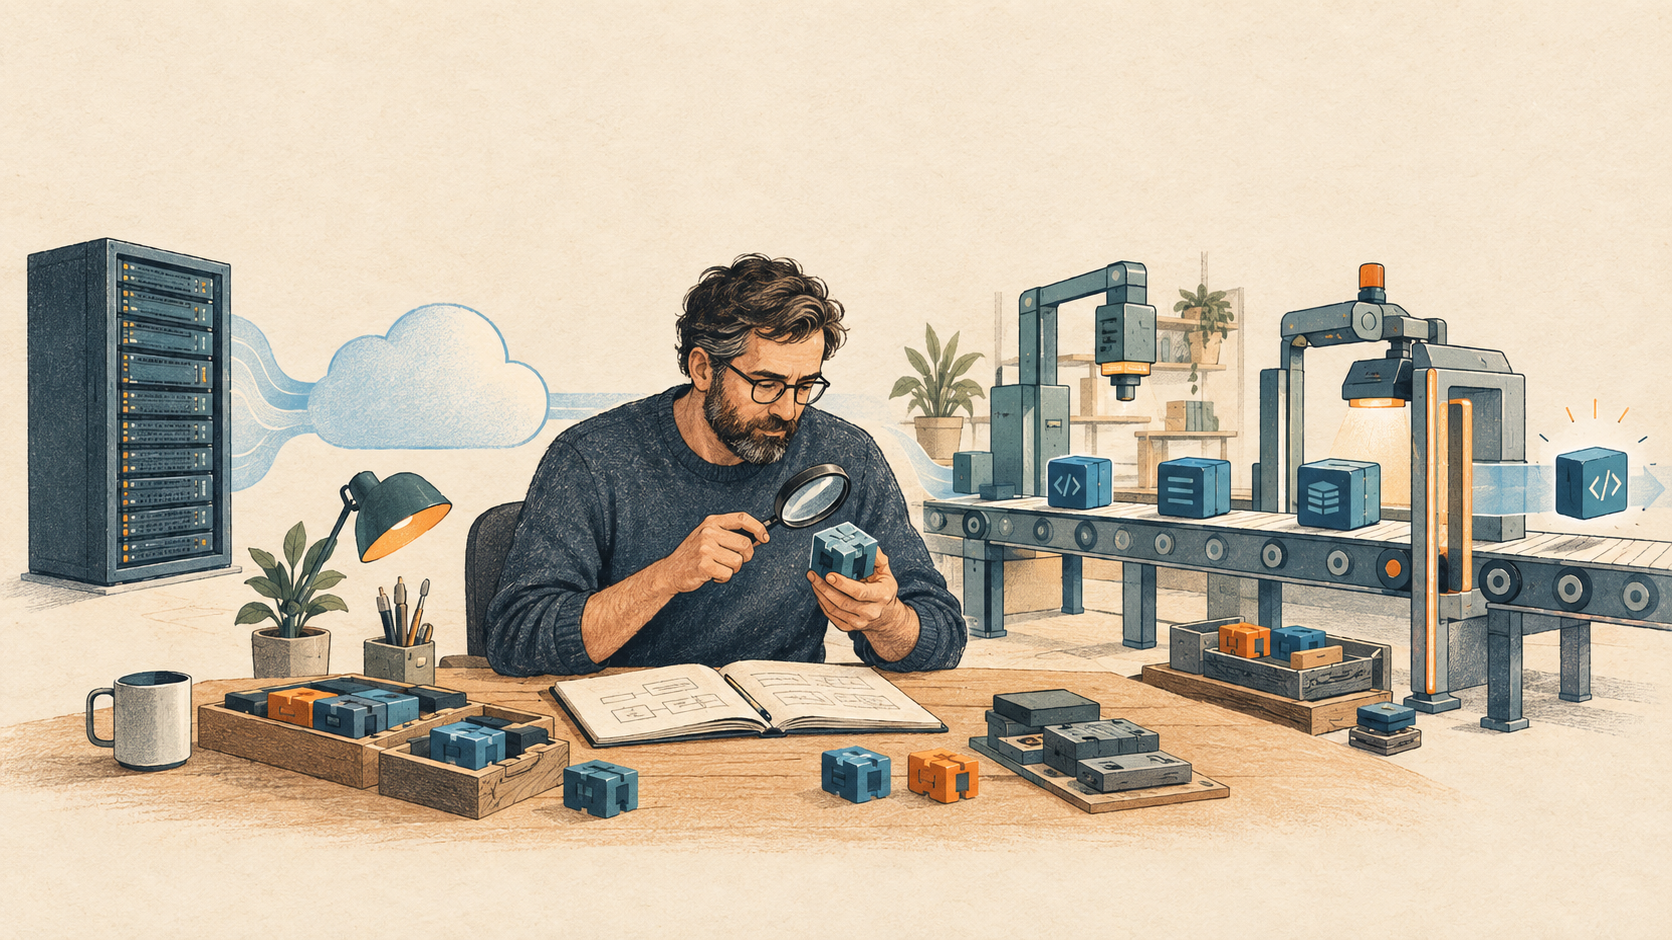
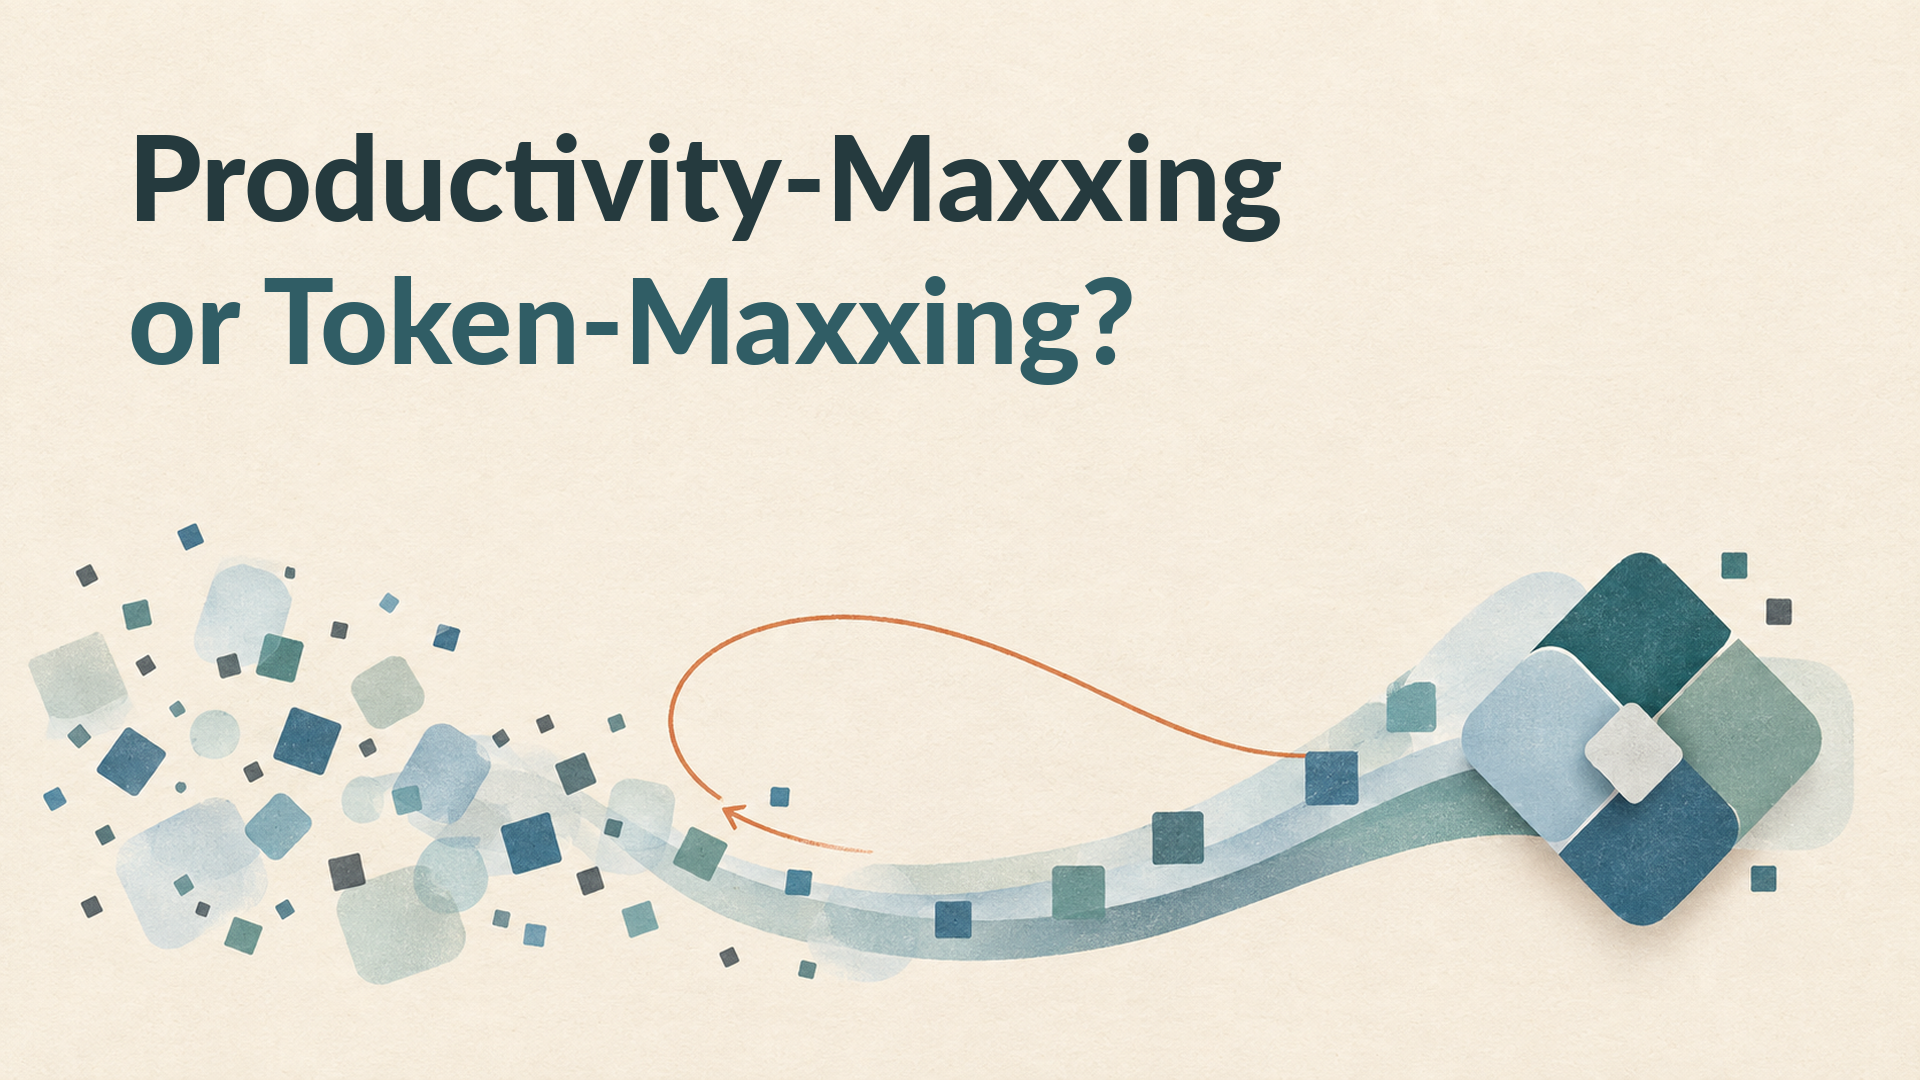
Update blog cover image and add Eno Reyes' X post.

diff --git a/_posts/2026-10-07-cloud-first-ai-first.md b/_posts/2026-10-07-cloud-first-ai-first.md
@@ -10,8 +10,6 @@ tags:
   - software-engineering
 ---
 
-{::options smart_quotes="lsquo,rsquo,quot,quot" /}
-
 Imagine a company in 2016. An engineer is standing in a meeting room, trying to convince the CTO and CIO to move an application to the cloud. The engineer has prepared a demo, a cost estimate, and answers to the questions that came up in the previous meeting. There have been several previous meetings.
 
 The CIO asks where the data will live. The CTO asks how the team will recover from an outage. Finance points out that the servers downstairs are already paid for. The engineer explains that waiting weeks for capacity has a cost too, especially when the team wants to try something small and has to ask for something large.
@@ -56,11 +54,15 @@ First, though, someone needs to explain what the company intends to do with all 
 
 The CTO describes a more ambitious possibility. An agent picks up a task, explores the repository, prepares a change, runs tests, and brings it back for review. Over time, more of that path becomes automated. The team could take on maintenance work that keeps losing out to the next feature request.
 
+Eno Reyes [did an X post](https://x.com/EnoReyes/status/2107858448914518174?s=20) about software improving through user feedback and making an organization's unwritten knowledge part of how its systems work. That gives our engineer something more interesting to consider: what would the team learn from each piece of work, and how would that learning help with the next one?
+
 Our engineer is interested. There is a migration in the backlog nobody wants to do by hand. There are tests the team has been meaning to add. There are old modules that take a new hire far too long to understand. A factory that helps with those things would earn its place quickly.
 
 Then the CTO suggests trying it on a small ticket: add retries to the payment flow. The engineer asks what happens when a payment succeeds but the response gets lost. Would the retry charge the customer again?
 
 Now the room has a concrete problem to discuss. Someone needs to establish how the system recognizes a transaction it has already processed. Someone needs to decide what the customer sees while the result is uncertain. The agent can help find the relevant code and investigate the behavior. The team still needs to agree on the promise it is making.
+
+Our engineer knows why this matters because they've been through a similar incident before. The important detail lives in their memory and a comment buried in an old ticket. Getting it into a regression test would help the next engineer and the next agent. Asking the experienced person to remember to mention it every time is a fairly fragile operating model.
 
 This is a developer objection I take seriously. "It passes the tests" leaves me wanting to know which behavior those tests cover, especially when money is involved. I'd also want to understand how the change fits the application we'll be extending next month.
 
@@ -80,9 +82,13 @@ The engineer suggests starting with that neglected migration, leaving the paymen
 
 Before implementation, they agree on the shape of the change. The agent gets a bounded workspace and the context it needs. The work comes back in pieces small enough to review. The team can ask it to explain an assumption, investigate a failure, or revise an approach before the next piece begins.
 
+They also decide what to keep from the review. A recurring design decision goes into the team's documented conventions. A mistake the checks can catch gets a test or a lint rule. Context that helped the agent belongs somewhere the next run can find it. Each improvement still needs review; nobody is giving the system permission to quietly rewrite its own standards.
+
 I like the possibilities here. A reviewer could open a pull request with the relevant context already assembled. A newer engineer could use the agent to walk through the unfamiliar parts. An experienced engineer could explore an alternative without spending an afternoon preparing scaffolding.
 
 They also agree to follow the work all the way through. Time saved during implementation matters. So do review, rework, release, and the effort of maintaining the result. The token bill belongs in the conversation alongside the human effort.
+
+After release, they follow the migration into actual use. A customer asking for another button may be struggling with a step the team assumed was obvious. The team investigates that problem before accepting the suggested solution, then carries the finding into the next change. I'd want that feedback to travel from observation to a tested release while someone still remembers why it mattered.
 
 If the experiment leaves the team with a quicker release and a change everyone can explain, they have a reason to expand it. If review takes longer or the design becomes harder to follow, they have something specific to improve. An unsuccessful tool can be retired without anyone being accused of failing to believe in AI.
 
@@ -96,10 +102,12 @@ A few weeks later, imagine the team returning to the same room. The slide still 
 
 Our engineer now has something to show. The executives can ask whether the migration was worth the effort and whether another team should try the same approach. The discussion can get specific: a review that took too long, context the agent was missing, a useful chunk of work the team would happily delegate again.
 
+There is something else on the slide: what the team kept. A test for a missed failure case. A clearer convention. A customer observation that changed the next task. Those are things the team can use again, even if the engineer who ran the pilot is on holiday. I'd count that growing capacity among the reasons to fund the next experiment.
+
 In 2016, that engineer had to answer difficult questions before getting permission to use the cloud. In 2026, permission arrived first. The questions about cost, ownership, and what happens when something breaks still need answers. Buying the tools doesn't make that work disappear.
 
 If you're leading this effort, put budget behind a task the team actually needs done. Give the engineers time to learn the tool and a say in how it gets used. Expect them to try it seriously, and expect to hear when it creates more work than it saves.
 
-Then follow the result past the demo. Can the next engineer explain why the change works? Can the person on call recover when it fails? If the token dashboard disappeared tomorrow, could you still show that the customer got a better product or the team got a better working day?
+Then follow the result past the demo. Can the next engineer explain why the change works? Can the person on call recover when it fails? What did the team learn that will make the next change easier? If the token dashboard disappeared tomorrow, could you still show that the customer got a better product or the team got a better working day?
 
 I'd fund a second experiment when the first one gives us useful answers, and expand the workflows the team wants to keep using. If the main thing growing is the invoice, check whether you've budgeted for more review and repair work too. That would be a fairly expensive way to discover you've been token-maxxing.
